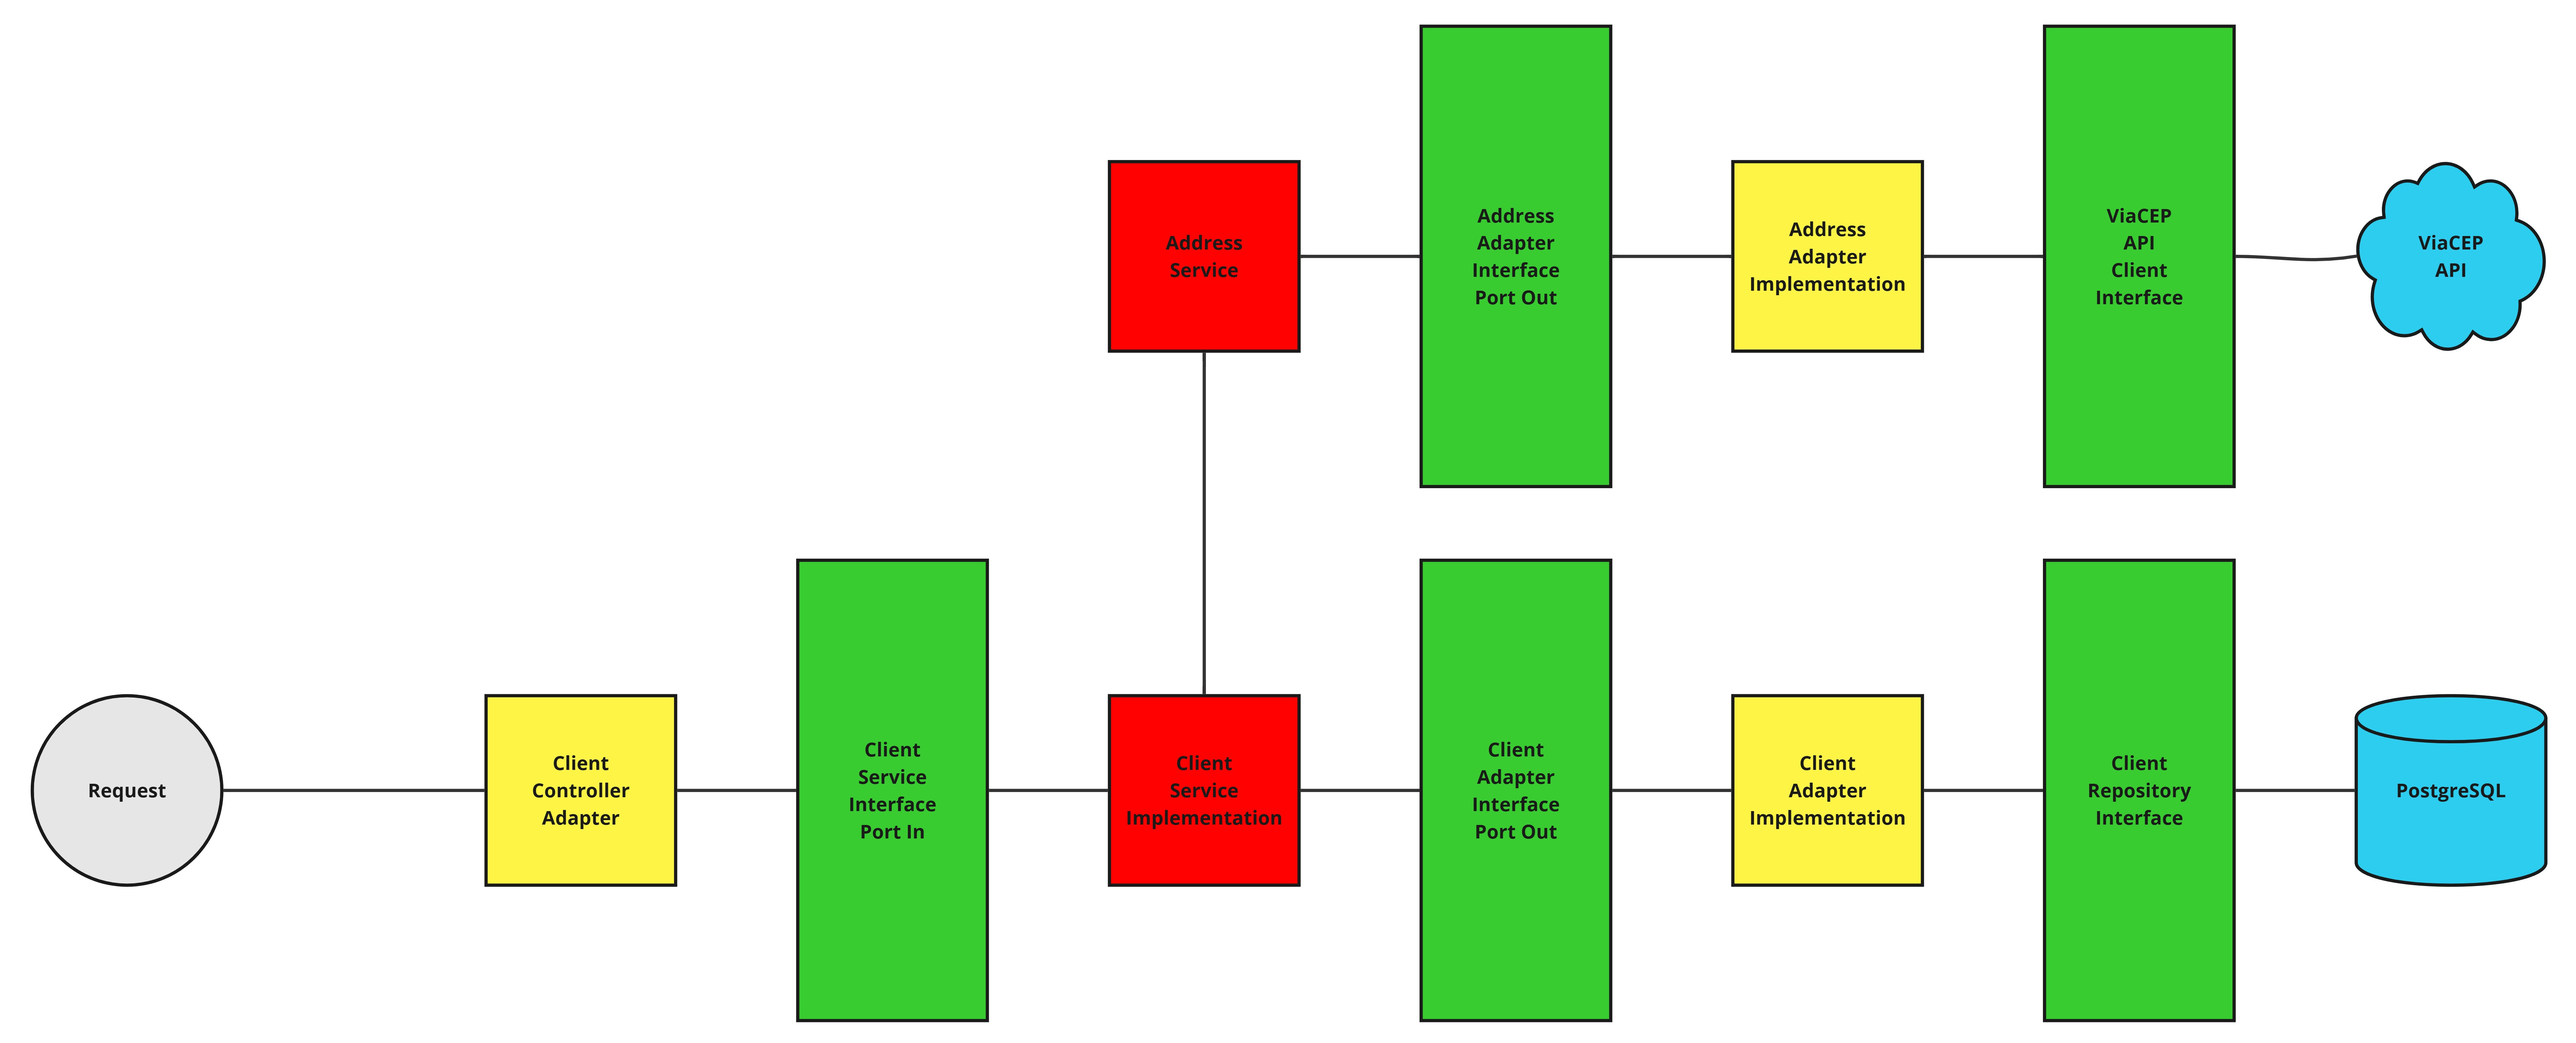
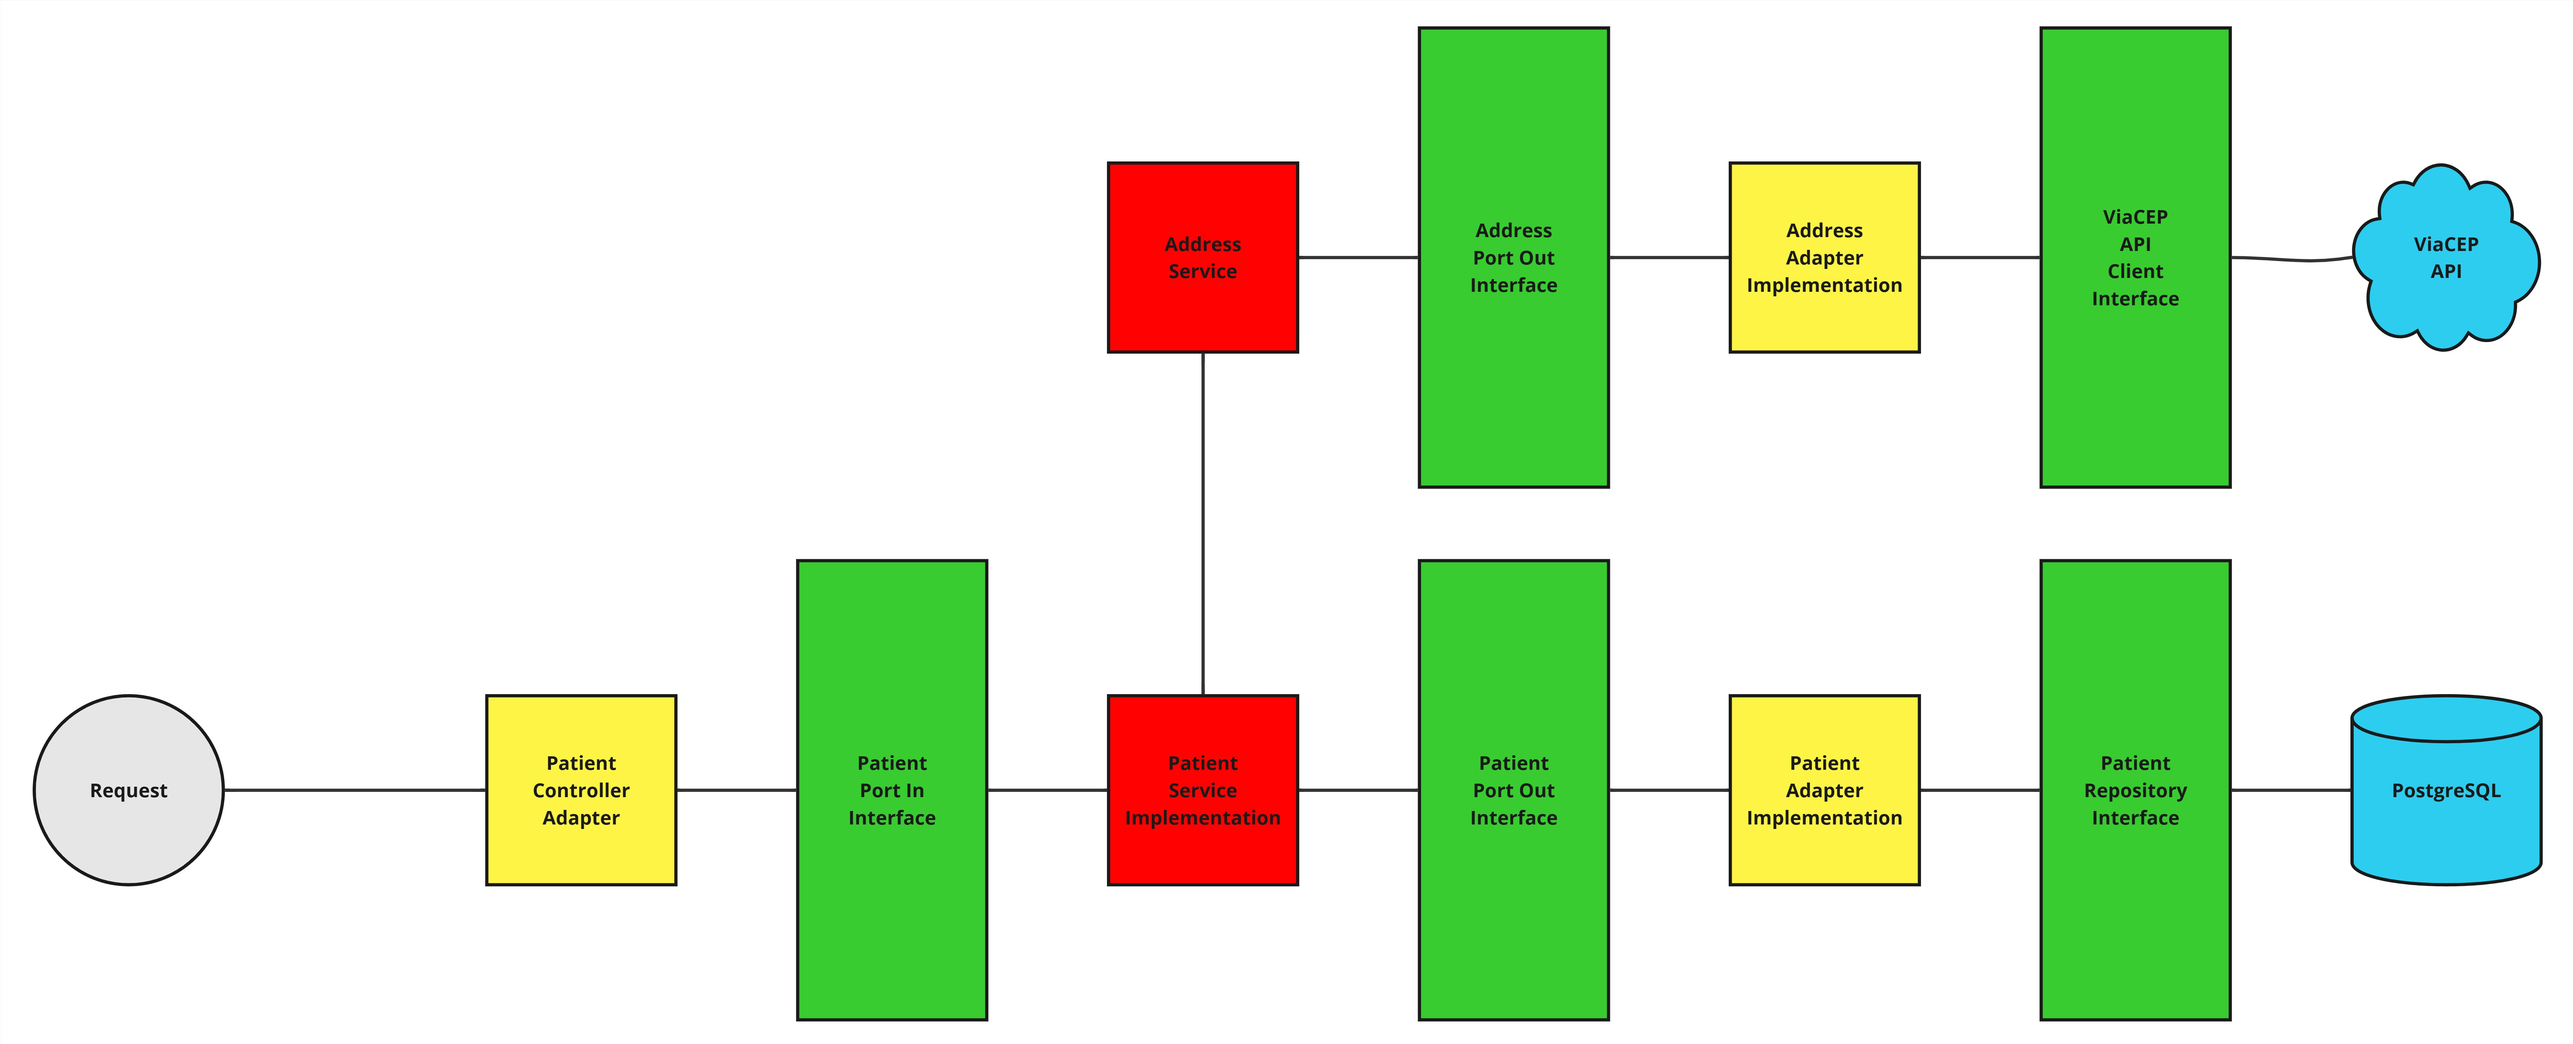
readme

diff --git a/README.md b/README.md
@@ -1,23 +1,20 @@
-# Tech Challenge - Fase 4 - Sistema de Gerenciamento de Pedidos
+# Hackathon Fiap - Fase 5
 
-## Pós Tech - Arquitetura e Desenvolvimento Java - Fiap - 2024
+## Pós Tech - Arquitetura e Desenvolvimento Java - Fiap - 2024/25
+
+## Glicontrol - Sistema de gerenciamento de resultado de exame e agendamento
 
 **Microsserviço desenvolvido por:** Welder Ressutti
 
 - **Grupo 11:**
     - Pedro Ono - RM 354950
-    - João Pedro Albuquerque dos Santos - RM 355211
     - Elton Xavier Souza - RM 354254
     - Welder Ressutti - RM 99070
 
-## Microsserviço de Gerenciamento de Clientes
+## Microsserviço de Gerenciamento de Pacientes
 
-Este microsserviço foi desenvolvido seguindo os padrões de **API RESTful**, arquitetura **hexagonal** com foco em isolar
-o **core** da aplicação dos elementos externos, e também respeitando os princípios **SOLID** de isolamento de
-responsabilidades.
-
-Sua responsabilidade dentro do sistema de gerenciamento de pedidos é de realizar o gerenciamento de clientes, realizando
-operações **CRUD**.
+Sua responsabilidade dentro do sistema **Glicontrol**, é de realizar o gerenciamento de pacientes, realizando operações
+**CRUD**.
 
 Foi utilizado banco de dados relacional **PostgreSQL** para persistência dos dados, integrado com gerenciamento de
 migração de schemas usando **Flyway**.
@@ -26,11 +23,11 @@ Foram criadas exceções personalizas que são tratadas globalmente pelo **Rest 
 Handler**, que retorna uma classe de erro contendo **timestamp**, **status code**, **error**, **message** e **path**.
 
 Possui integração por comunicação síncrona utilizando **OpenFeign** com a API **ViaCEP** para obter o endereço completo
-do cliente.
+do paciente.
 
 ## Funcionalidades e Endpoints
 
-### Criação de Cliente (POST)
+### Criação de Paciente (POST)
 
 **Endpoint:** ``/api/patient``
 
@@ -49,27 +46,27 @@ algoritmo que verifica se o **CPF** é válido/verdadeiro.
 O usuário deve informa apenas o **CEP** e **número** do seu endereço, as demais informações do endereço serão
 preenchidas automaticamente através da integração com a API **ViaCEP**.
 
-O sistema **impede** o cadastro de cliente com **CPF** e/ou **e-mail** iguais.
+O sistema **impede** o cadastro de paciente com **CPF** e/ou **e-mail** iguais.
 
-### Atualização de Cliente (PUT)
+### Atualização de Paciente (PUT)
 
-**Endpoint:** ``/api/patient/{clientId}``
+**Endpoint:** ``/api/patient/{patientId}``
 
-Todo o padrão de validação, limpeza e consistência de dados do processo de cadastro se matém aqui também, porém, aqui
+Todo o padrão de validação, limpeza e consistência de dados do processo de cadastro se matém aqui também, porém, aqui,
 todos os campos são **opcionais**, pode ser enviado apenas **um**, **alguns** ou **todos** os campos para a atualização
-do cliente.
+do paciente.
 
-### Leitura de Cliente (GET)
+### Leitura de Paciente (GET)
 
-**Endpoint:** ``/api/patient/{clientId}`` ``/api/patient?email=`` ``/api/patient/all``
+**Endpoint:** ``/api/patient/{patientId}`` ``/api/patient?email=`` ``/api/patient``
 
-Pode ser obtido o cliente pelo seu **id** ou **e-mail**. Também é possível obter **todos** os clientes de uma vez.
+Pode ser obtido o paciente pelo seu **id** ou **e-mail**. Também é possível obter **todos** os pacientes de uma vez.
 
-### Deleção de Cliente (DELETE)
+### Deleção de Paciente (DELETE)
 
-**Endpoint:** ``/api/patient/{clientId}``
+**Endpoint:** ``/api/patient/{patientId}``
 
-Para deletar um cliente basta passar seu **id** no endpoint.
+Para deletar um paciente basta passar seu **id** no endpoint.
 
 *Para mais informações sobre a API, como, request, response e status code, consultar a documentação Swagger.*
 
@@ -79,11 +76,14 @@ A arquitetura hexagonal consiste na ideia de utilizar portas e adaptadores para 
 externa e interna, isolando o core da aplicação para que alterações externas não interfiram nas regras de negócio e
 casos de uso.
 
+Este microsserviço foi desenvolvido seguindo os padrões de API RESTful, arquitetura hexagonal, e também respeitando os
+princípios SOLID de isolamento de responsabilidades.
+
 A arquitetura desta aplicação foi desenvolvida da seguinte forma:
 
 ![Aquitetura](images/architecture.jpg)
 
-## Executando a aplicação
+## Executando a aplicação (isoladamente)
 
 ### Pré-requisitos
 
@@ -97,15 +97,13 @@ A arquitetura desta aplicação foi desenvolvida da seguinte forma:
 Para clonar o repositório, use o comando:
 
 ```bash
-git clone https://github.com/welderessutti/patient-management-ms.git
+git clone https://github.com/welderessutti/api-patient
 ```
 
 Caso não queira clonar o repositório, você pode baixá-lo
-em [GitHub](https://github.com/welderessutti/patient-management-ms).
+em [GitHub](https://github.com/welderessutti/api-patient).
 
 ### Passo 2: Executar a aplicação com Docker
-
-#### Ambiente de Produção (prd):
 
 No terminal, dentro do diretório raíz do projeto (local onde se encontra o arquivo **pom.xml** da aplicação), execute o
 comando abaixo para subir o container da aplicação e do banco de dados **PostgreSQL**:
@@ -115,7 +113,7 @@ docker compose up -d
 ```
 
 O Docker tentará baixar a imagem no repositório
-do [Docker Hub](https://hub.docker.com/repository/docker/welderessutti/patient-management-ms/general), caso ele não
+do [Docker Hub](https://hub.docker.com/repository/docker/welderessutti/api-patient/general), caso ele não
 encontre a imagem, ele realizará a **build** da aplicação **(.jar)**, criará a imagem e executará os containers
 automaticamente.
 
@@ -137,165 +135,4 @@ http://localhost:8080/api/swagger-ui/index.html
 
 Lá você encontrará detalhes sobre todos os endpoints disponíveis, parâmetros de requisição e resposta.
 
-![Jacoco](images/swagger.png)
-
-## Testes
-
-Práticas de TDD (Test-Driven Development) e BDD (Behavior-Driven Development) foram utilizadas ao longo do
-desenvolvimento para criar testes unitários, de integração, de sistema e de comportamento, totalizando mais de **120**
-testes e mais de **90%** de coverage, conforme relatórios do **Jacoco** e **Allure**.
-
-Foram utilizadas a bibliotecas **JUnit 5**, **Mockito**, **REST-Assured** e **Cucumber** com linguagem **Gherkin**.
-
-Foram criados 4 tipos de perfis de teste, **unit-tests**, **integration-tests**, **behavior-tests** e **all-tests**.
-
-### Executando os testes unitários e de integração
-
-#### Pré-requisitos
-
-- **Maven** (somente para os testes):
-    - [Maven](https://maven.apache.org/download.cgi)
-
-#### Testes unitários
-
-Utilizando seu terminal, dentro do diretório raíz do projeto (local onde se encontra o arquivo **pom.xml** da
-aplicação), execute o comando abaixo para executar os testes unitários com o perfil **unit-tests**:
-
-```bash
-mvn clean test -Punit-tests
-```
-
-#### Testes de integração
-
-Utilizando seu terminal, dentro do diretório raíz do projeto (local onde se encontra o arquivo **pom.xml** da
-aplicação), execute o comando abaixo para executar os testes de integração com o perfil **integration-tests**:
-
-```bash
-mvn clean test -Pintegration-tests
-```
-
-### Executando os testes de comportamento (BDD) e todos os testes juntos
-
-#### Pré-requisitos
-
-- **Maven** (somente para os testes):
-    - [Maven](https://maven.apache.org/download.cgi)
-- **Docker Desktop** (para executar a aplicação através de containers):
-    - [Docker](https://www.docker.com/products/docker-desktop/)
-
-#### Passo 1: Executar a aplicação com Docker
-
-##### Ambiente de Staging (stg):
-
-Antes de realizar o teste de comportamento ou todos os testes juntos, é necessário executar a aplicação utilizando o
-ambiente **stg**.
-
-Para isso, execute o comando abaixo conforme o shell que você estiver utilizando, para incluir a variável de ambiente e
-executar a aplicação com o ambiente **stg**:
-
-**Caso você já tenha executado a aplicação com o ambiente **prd** e não tenha excluído os containers, pare e exclua os
-containers antes de executar a aplicação com o ambiente **stg***.
-
-##### Windows (PowerShell)
-
-```powershell
-$env:PROFILE="stg"; docker compose up -d
-```
-
-##### Windows (CMD)
-
-```cmd
-set PROFILE=stg && docker compose up -d
-```
-
-##### Linux ou macOS (Bash)
-
-```bash
-PROFILE=stg docker compose up -d
-```
-
-#### Passo 2: Executar os testes
-
-##### Testes de comportamento (BDD)
-
-Após executar a aplicação com o ambiente **stg**, utilizando seu terminal, dentro do diretório raíz do projeto (local
-onde se encontra o arquivo **pom.xml** da aplicação), execute o comando abaixo para executar os testes de comportamento
-com o perfil **behavior-tests**:
-
-```bash
-mvn clean test -Pbehavior-tests
-```
-
-##### Todos os testes juntos
-
-Após executar a aplicação com o ambiente **stg**, utilizando seu terminal, dentro do diretório raíz do projeto (local
-onde se encontra o arquivo **pom.xml** da aplicação), execute o comando abaixo para executar todos os testes com
-o perfil **all-tests**:
-
-*Caso você já tenha executado os *testes de comportamento*, você deve parar e excluir os containers antes, e subi-los
-novamente em ambiente **stg**, caso contrário, o teste de comportamento falhará devido a uma regra de negócio da
-aplicação.*
-
-```bash
-mvn clean test -Pall-tests
-```
-
-## Relatórios
-
-A aplicação está configurada para gerar 3 tipos de relatórios, **Jacoco**, **Allure** e **Cucumber**.
-
-### Allure
-
-#### Pré-requisitos
-
-- **Allure** (para gerar o relatório após o teste):
-    - [Allure](https://allurereport.org/)
-
-#### Passo 1: Executar os testes
-
-Execute **qualquer um** dos testes informados anteriormente na seção de **Testes**.
-
-#### Passo 2: Gerar o relatório
-
-Utilizando seu terminal, dentro do diretório raíz do projeto (local onde se encontra o arquivo **pom.xml** da
-aplicação), execute o comando abaixo para gerar o relatório **Allure**:
-
-```bash
-allure generate target/allure-results
-```
-
-Após gerar o relatório **Allure**, ele estará disponível no diretório raíz em: ``allure-report/index.html``
-
-![Allure](images/allure-report.png)
-
-### Cucumber
-
-#### Passo 1: Executar os testes
-
-Execute o teste de **comportamento** informado anteriormente na seção de **Testes**. Você deve estar rodando a aplicação
-em ambiente **stg**.
-
-#### Passo 2: Abrir o relatório
-
-Após executar o teste de comportamento, o relatório **Cucumber** é gerado automaticamente, e ele estará disponível no
-diretório: ``target/cucumber-reports/cucumber.html``
-
-![Cucumber](images/cucumber-report.png)
-
-### Jacoco
-
-#### Passo 1: Executar os testes com verify do Maven
-
-Para gerar o relatório do **Jacoco**, você deve executar o teste com o **verify** do **maven**, utilizando o comando
-abaixo:
-
-```bash
-mvn clean verify
-```
-
-#### Passo 2: Abrir o relatório
-
-Após a execução dos testes, o relatório **Jacoco** é gerado automaticamente, e estará disponível no
-diretório: ``target/site/jacoco/index.html``
-
-![Jacoco](images/jacoco-report.png)
+![Swagger](images/swagger.png)
